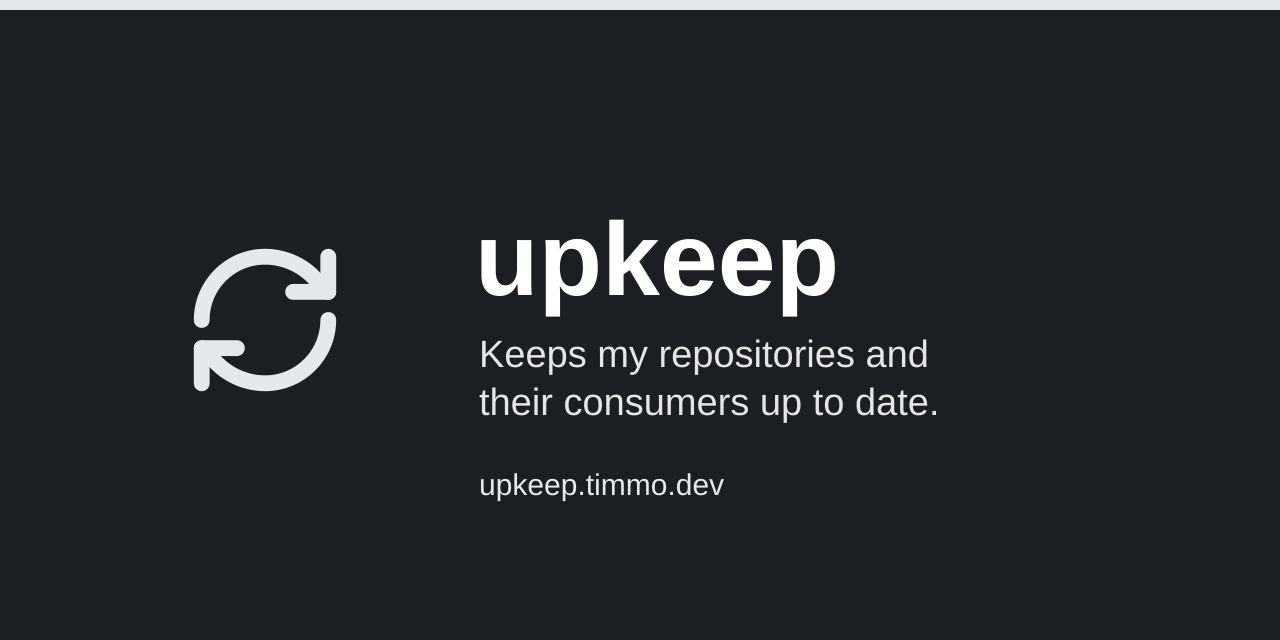
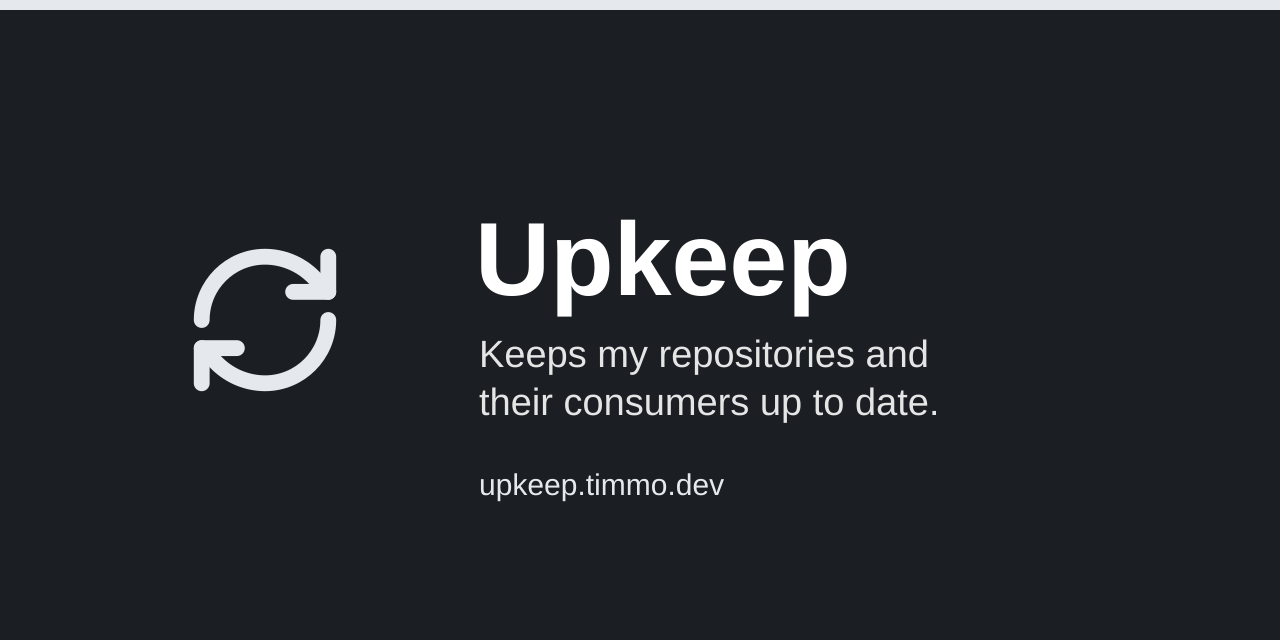
Capitalise Upkeep in the docs and social preview

Changed region(s): [[0.375, 0.3438, 0.6875, 0.5]]

diff --git a/docs/blume.config.ts b/docs/blume.config.ts
@@ -1,10 +1,10 @@
-/** The upkeep docs site, built on the shared docs-kit defaults. */
+/** The Upkeep docs site, built on the shared docs-kit defaults. */
 import { docsConfig } from "@timmo001/docs-kit/blume";
 import { defineConfig } from "blume";
 
 export default defineConfig(
   docsConfig({
-    title: "upkeep",
+    title: "Upkeep",
     description:
       "Keeps my repositories and their consumers up to date, and shows what needs doing.",
     site: "upkeep.timmo.dev",

diff --git a/docs/scripts/brand-images.ts b/docs/scripts/brand-images.ts
@@ -8,10 +8,10 @@ import { writeBrandImages } from "@timmo001/docs-kit";
 
 const written = await writeBrandImages({
   logo: "src/assets/logo.svg",
-  title: "upkeep",
+  title: "Upkeep",
   tagline: ["Keeps my repositories and", "their consumers up to date."],
   site: "upkeep.timmo.dev",
-  // Groundwork's Base theme, until upkeep picks its own
+  // Groundwork's Base theme, until Upkeep picks its own
   background: "#1b1e23",
   accent: "#e5e8ec",
   outputs: {
